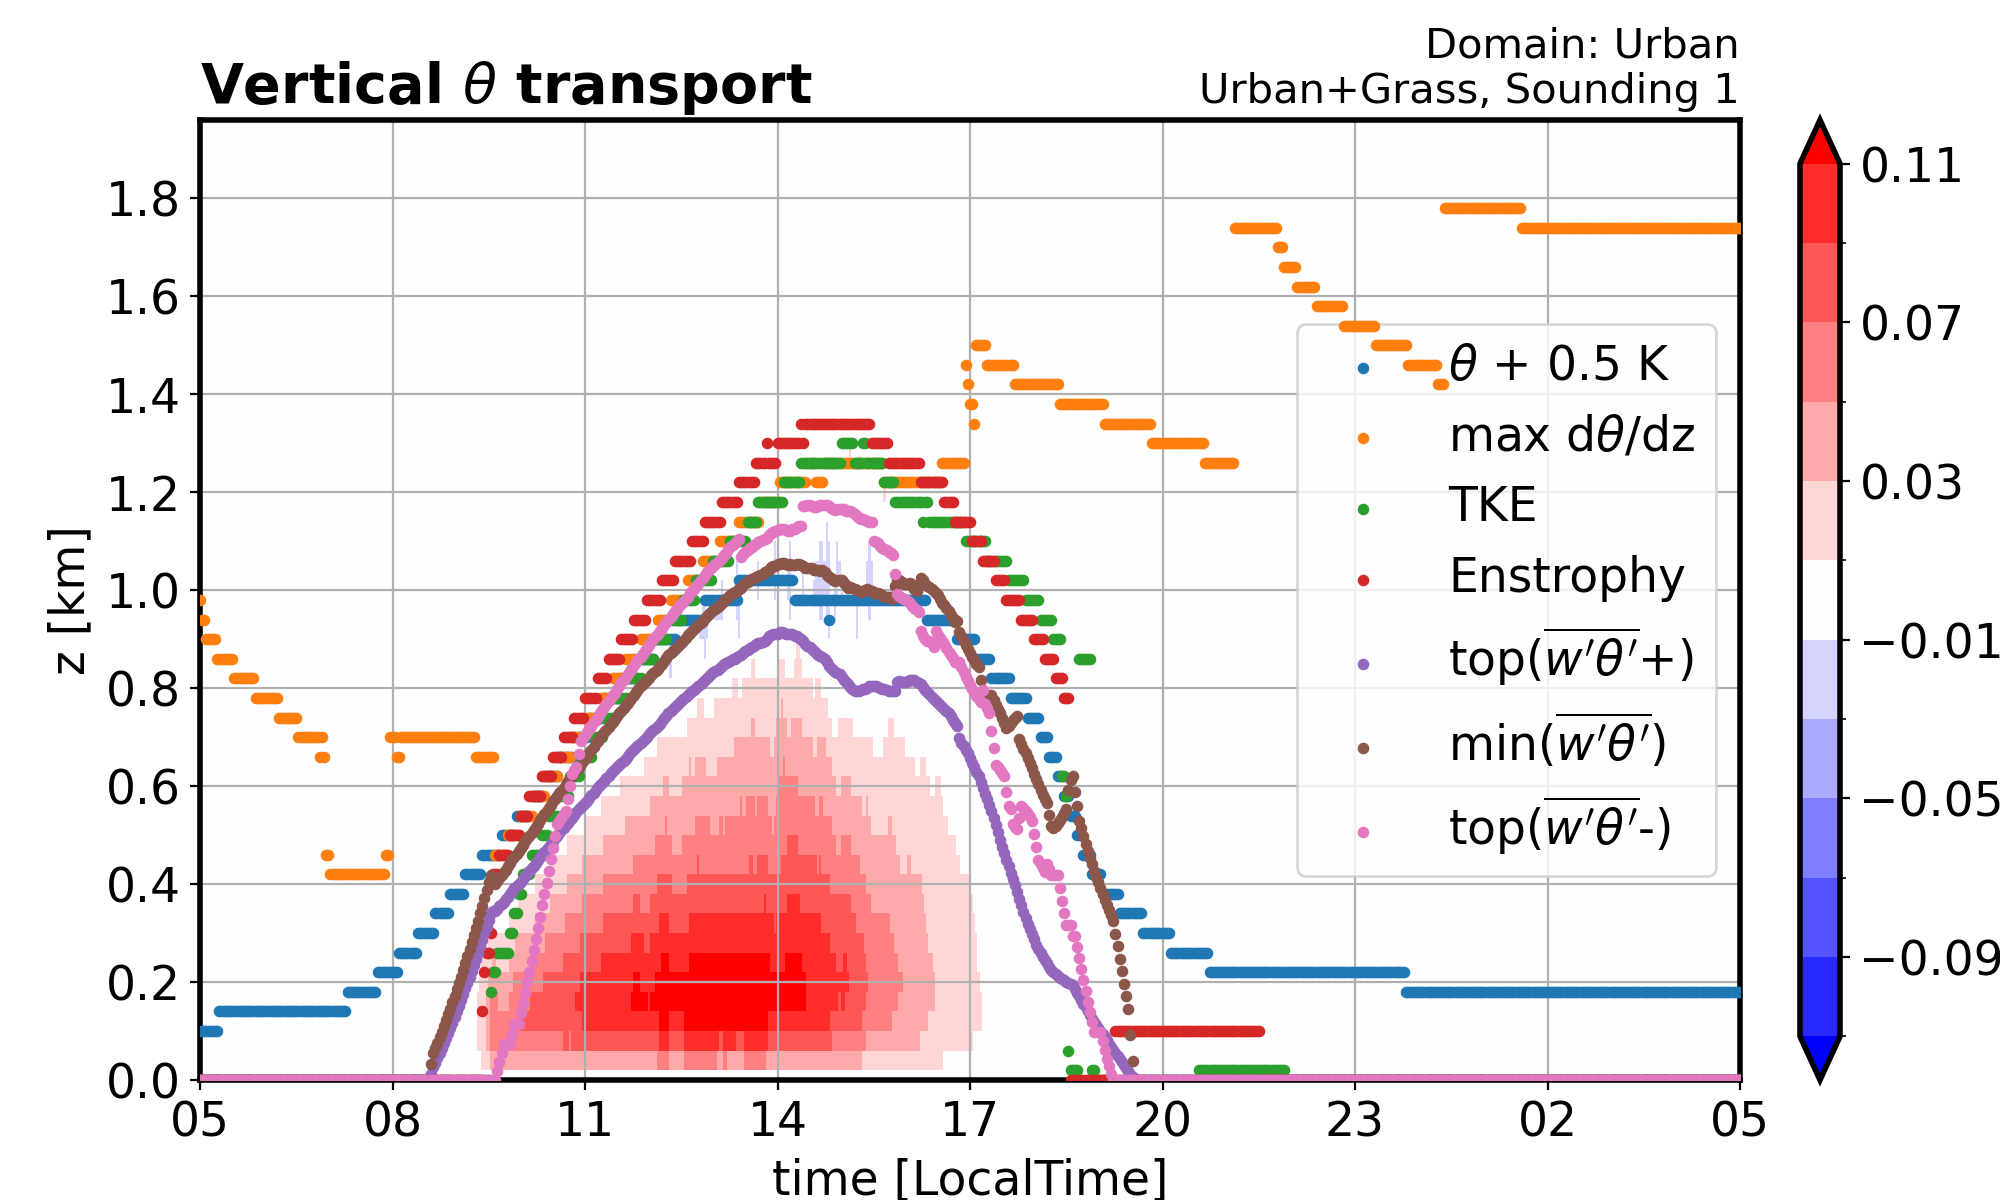
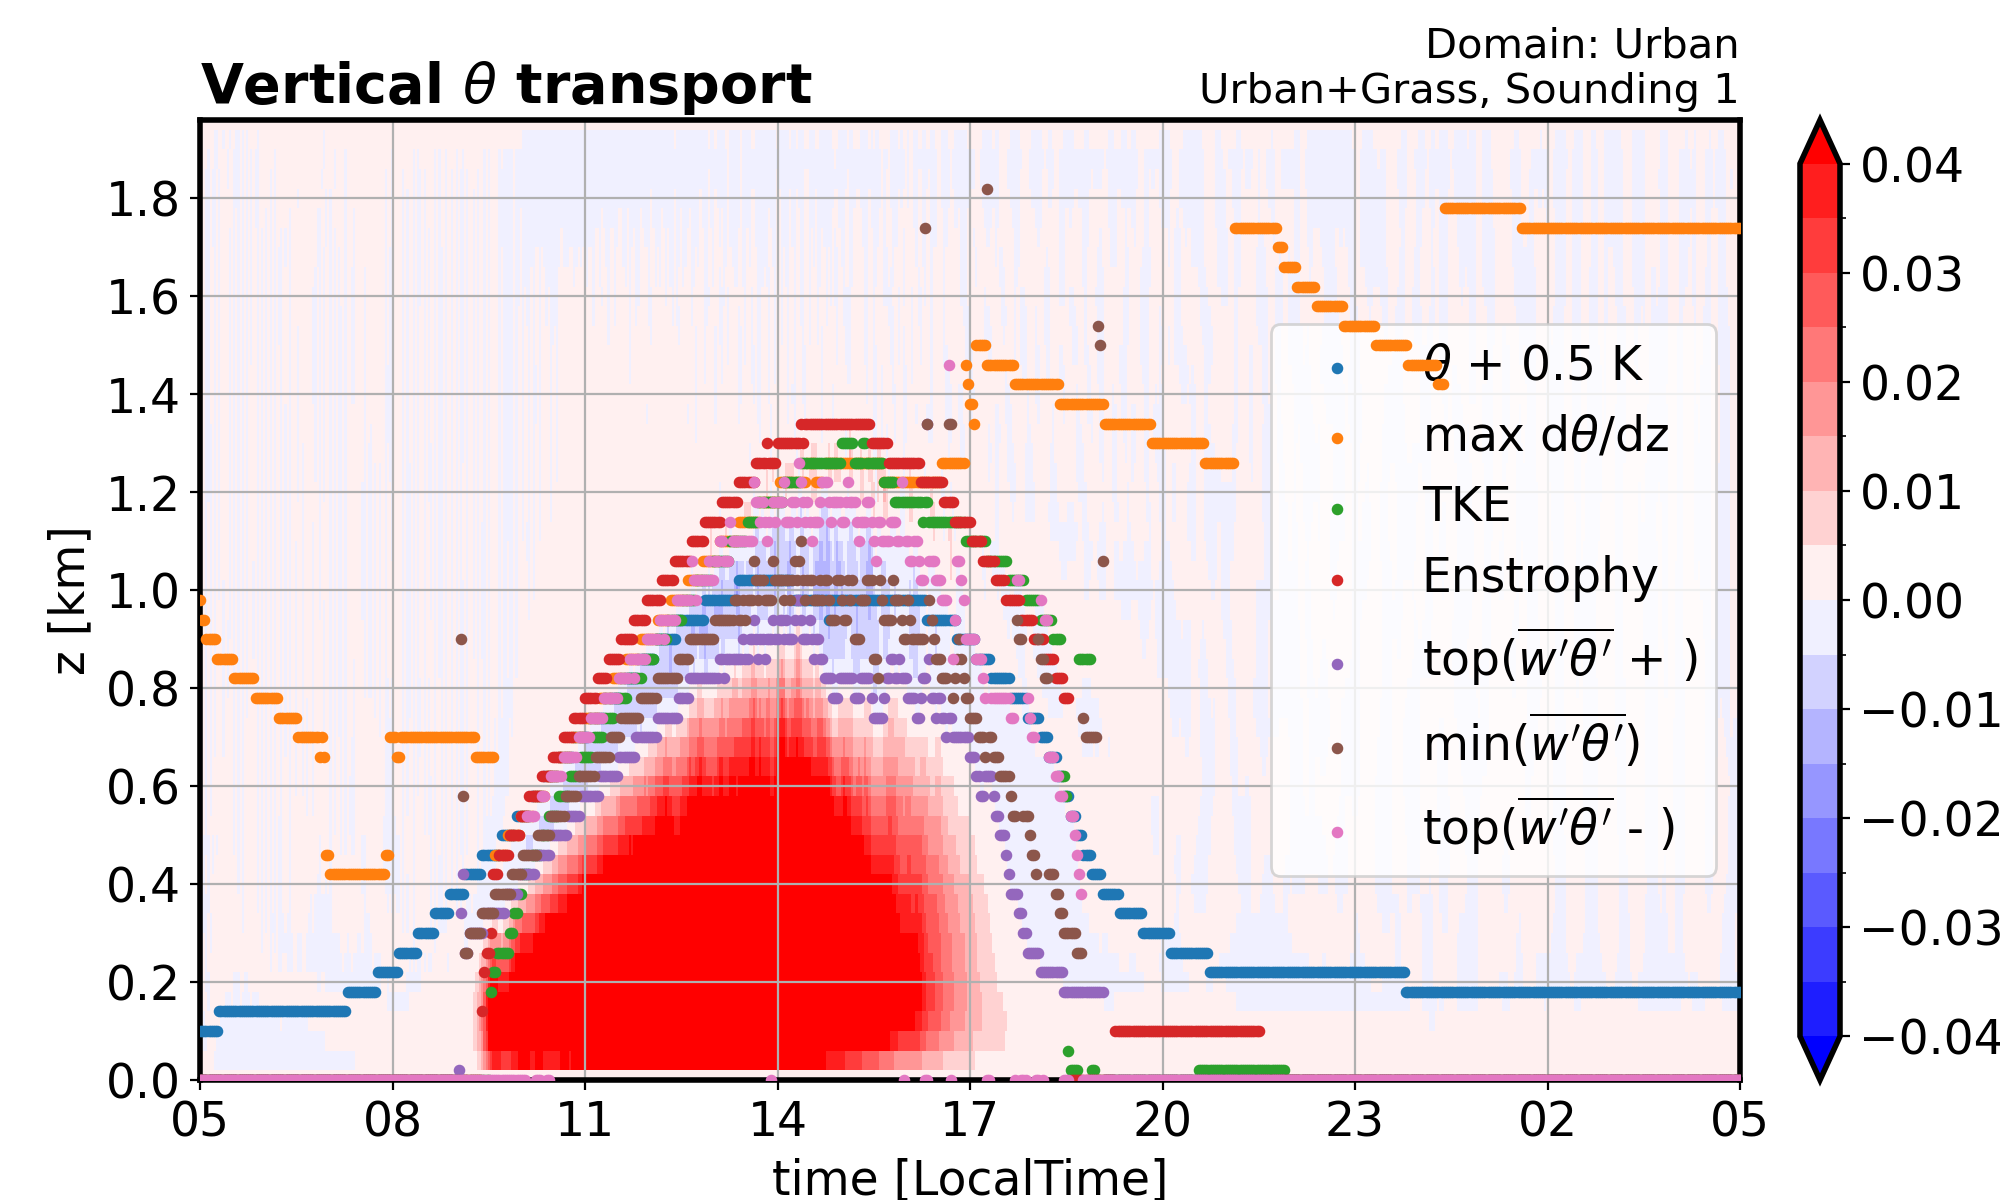
hw7.2 plot

diff --git a/main.py b/main.py
@@ -7,7 +7,7 @@ from vvmtool import VVMTools
 
 # TODO 2: change the expname to your experiment name
 # prepare expname and data coordinate
-expname  = 'Urban+Grass, Sounding 2'
+expname  = 'Urban+Grass, Sounding 1'
 nx = 128; x = np.arange(nx)*0.2
 ny = 128; y = np.arange(ny)*0.2
 nz = 50;  z = np.arange(nz)*0.04
@@ -21,18 +21,14 @@ domain_g = (None, None, None, None, 64, 128)
 domain_all = (None, None, None, None, None, None)
 
 domain_range = domain_all
-vvm = VVMTools("/data/mlcloud/pike/VVM/DATA/5_2hetero")
+vvm = VVMTools("/data/mlcloud/pike/VVM/DATA/5_1hetero")
 
 
-bl_point5 = vvm.func_time_parallel(vvm.blPointfive, t_range, domain_range=domain_range) / 1000
-bl_tke=vvm.blOther('TKE', 0.3, t_range, domain_range = domain_range) / 1000
-bl_ens=vvm.blOther('ENS', 3e-5, t_range, domain_range = domain_range) / 1000
-bl_grad=vvm.func_time_parallel(vvm.blGrad, t_range, domain_range = domain_range) / 1000
+bl_point5 = vvm.func_time_parallel(vvm.blPointfive, t_range, domain_range=domain_range)
+bl_tke=vvm.blOther('TKE', 0.3, t_range, domain_range = domain_range)
+bl_ens=vvm.blOther('ENS', 3e-5, t_range, domain_range = domain_range)
+bl_grad=vvm.func_time_parallel(vvm.blGrad, t_range, domain_range = domain_range)
 bl_wthp, bl_wthm, bl_wthn = vvm.find_wth_boundary(t_range, 0.001, domain_range = domain_range)
-
-bl_wthp /= 1000
-bl_wthm /= 1000
-bl_wthn /= 1000
 
 WTH = vvm.func_time_parallel(vvm.cal_WTH, t_range, domain_range = domain_range)
 WTH = np.swapaxes(WTH, 0, 1)
@@ -53,19 +49,19 @@ dplot = dataPlotters(expname, figpath, data_domain, data_domain_units)
 #         change the title_left and title_right,
 #         change figname for output file name.
 fig, ax, cax = dplot.draw_zt(data=WTH, 
-                             levels=np.arange(-0.11, 0.111, 0.02), 
+                             levels=np.arange(-0.04, 0.041, 0.005), 
                              extend='both', 
                              pblh_dicts={r'$\theta$ + 0.5 K': bl_point5,
                                          r'max d$\theta$/dz ': bl_grad,
                                          r'TKE': bl_tke,
                                          r'Enstrophy': bl_ens,
-                                         r'top($\overline{w^\prime \theta^\prime}$+)': bl_wthp,
+                                         r'top($\overline{w^\prime \theta^\prime}$ + )': bl_wthp,
                                          r'min($\overline{w^\prime \theta^\prime}$)': bl_wthm,
-                                         r'top($\overline{w^\prime \theta^\prime}$-)': bl_wthn,
+                                         r'top($\overline{w^\prime \theta^\prime}$ - )': bl_wthn,
                                         },
                              title_left=r'Vertical $\theta$ transport', 
                              title_right=f'Domain: All', 
-                             figname='S2_all.png', 
+                             figname='S1_all.png', 
                       )
 
 
